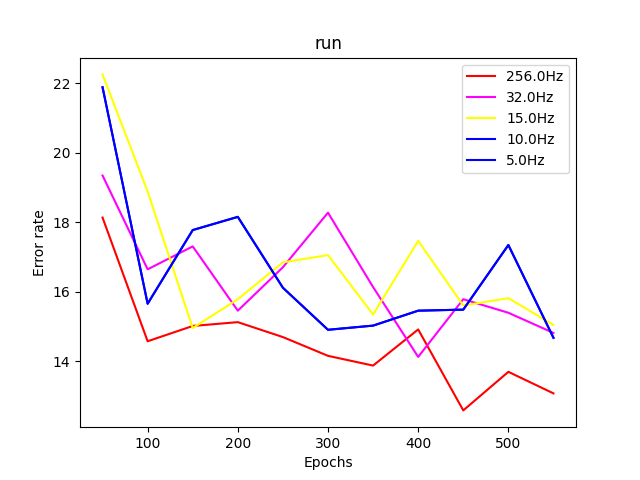
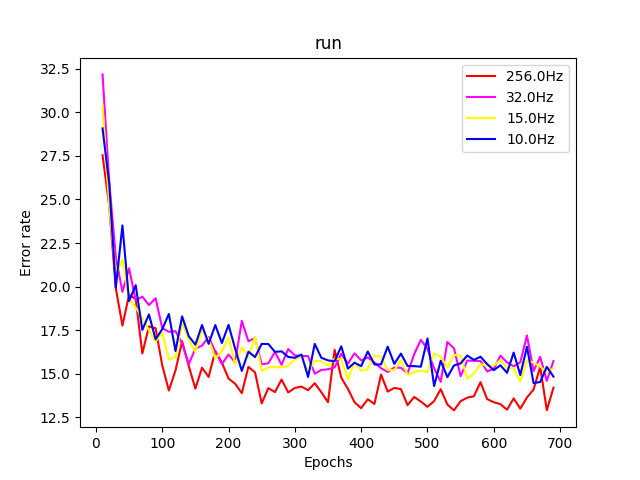
add plots

diff --git a/data/WristSense/CNNs_HAR_and_HR/Results/plot.py b/data/WristSense/CNNs_HAR_and_HR/Results/plot.py
@@ -6,14 +6,14 @@ import matplotlib.pyplot as plt
 # each has five line 256 32 15 10 5
 
 
-with open('errors.json', newline='') as jsonfile:
+with open('errors_2.json', newline='') as jsonfile:
     data = js.load(jsonfile)
     data_key = data['hr_errors']
     high={'256.0Hz':[], '32.0Hz':[], '15.0Hz':[], '10.0Hz':[], '5.0Hz':[]}
     low={'256.0Hz':[], '32.0Hz':[], '15.0Hz':[], '10.0Hz':[], '5.0Hz':[]}
     run={'256.0Hz':[], '32.0Hz':[], '15.0Hz':[], '10.0Hz':[], '5.0Hz':[]}
     walk={'256.0Hz':[], '32.0Hz':[], '15.0Hz':[], '10.0Hz':[], '5.0Hz':[]}
-    epochs=[i for i in range(20,600,20)]
+    epochs=[i for i in range(10,700,10)]
 
     for result in data_key:
         if result["exercise"]=="high":
@@ -61,15 +61,15 @@ with open('errors.json', newline='') as jsonfile:
             else:
                 walk['5.0Hz'].append(round(float(result["error"]),2))
 
-    plt.title("High resist bike")
-    plt.ylabel("Error rate")
-    plt.xlabel("Epochs")
-    plt.plot(epochs,high["256.0Hz"][1:],color=(255/255,0/255,0/255), label='256.0Hz')
-    plt.plot(epochs,high["32.0Hz"][1:],color=(255/255,0/255,255/255), label='32.0Hz')
-    plt.plot(epochs,high["15.0Hz"][1:],color=(255/255,255/255,0/255), label='15.0Hz')
-    plt.plot(epochs,high["10.0Hz"][1:],color=(0/255,0/255,255/255), label='10.0Hz')
-    plt.legend(loc = 'upper right')
-    plt.savefig("high.png")
+    # plt.title("High resist bike")
+    # plt.ylabel("Error rate")
+    # plt.xlabel("Epochs")
+    # plt.plot(epochs,high["256.0Hz"][1:],color=(255/255,0/255,0/255), label='256.0Hz')
+    # plt.plot(epochs,high["32.0Hz"][1:],color=(255/255,0/255,255/255), label='32.0Hz')
+    # plt.plot(epochs,high["15.0Hz"][1:],color=(255/255,255/255,0/255), label='15.0Hz')
+    # plt.plot(epochs,high["10.0Hz"][1:],color=(0/255,0/255,255/255), label='10.0Hz')
+    # plt.legend(loc = 'upper right')
+    # plt.savefig("high.png")
 
 
 
@@ -90,19 +90,19 @@ with open('errors.json', newline='') as jsonfile:
     # plt.plot(epochs,run["256.0Hz"][1:],color=(255/255,0/255,0/255), label='256.0Hz')
     # plt.plot(epochs,run["32.0Hz"][1:],color=(255/255,0/255,255/255), label='32.0Hz')
     # plt.plot(epochs,run["15.0Hz"][1:],color=(255/255,255/255,0/255), label='15.0Hz')
-    # plt.plot(epochs,run["10.0Hz"][1:],color=(0/255,0/255,255/255),l abel='10.0Hz')
+    # plt.plot(epochs,run["10.0Hz"][1:],color=(0/255,0/255,255/255), label='10.0Hz')
     # plt.legend(loc = 'upper right')
     # plt.savefig("run.png")
 
 
-    # plt.title("walk")
-    # plt.ylabel("Error rate")
-    # plt.xlabel("Epochs")
-    # plt.plot(epochs,walk["256.0Hz"][1:],color=(255/255,0/255,0/255),label='256.0Hz')
-    # plt.plot(epochs,walk["32.0Hz"][1:],color=(255/255,0/255,255/255),label='32.0Hz')
-    # plt.plot(epochs,walk["15.0Hz"][1:],color=(255/255,255/255,0/255),label='15.0Hz')
-    # plt.plot(epochs,walk["10.0Hz"][1:],color=(0/255,0/255,255/255), label='10.0Hz')
-    # plt.legend(loc = 'upper right')
-    # plt.savefig("walk.png")
+    plt.title("walk")
+    plt.ylabel("Error rate")
+    plt.xlabel("Epochs")
+    plt.plot(epochs,walk["256.0Hz"][1:],color=(255/255,0/255,0/255),label='256.0Hz')
+    plt.plot(epochs,walk["32.0Hz"][1:],color=(255/255,0/255,255/255),label='32.0Hz')
+    plt.plot(epochs,walk["15.0Hz"][1:],color=(255/255,255/255,0/255),label='15.0Hz')
+    plt.plot(epochs,walk["10.0Hz"][1:],color=(0/255,0/255,255/255), label='10.0Hz')
+    plt.legend(loc = 'upper right')
+    plt.savefig("walk.png")
 
 
